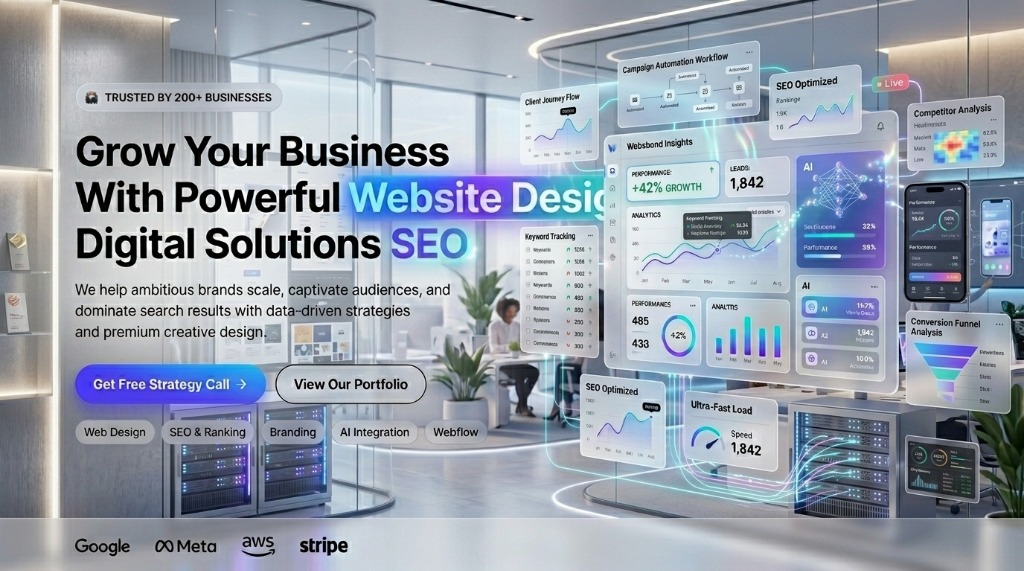
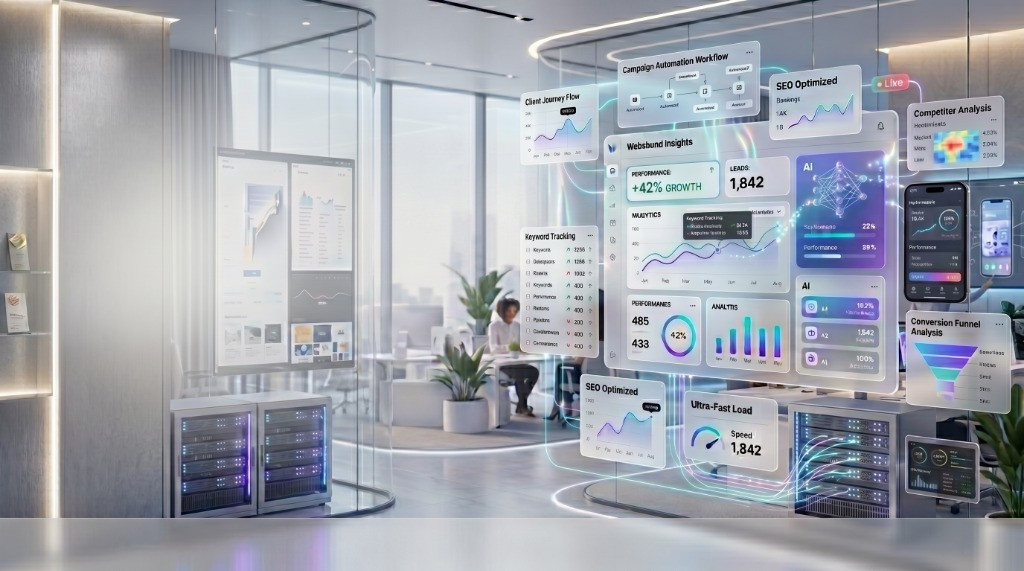
design(hero): set clean mockup image as full section background and place live HTML text on top

diff --git a/agency/src/components/site/Hero.tsx b/agency/src/components/site/Hero.tsx
@@ -8,15 +8,17 @@ export const Hero = () => {
   return (
     <section
       id="hero"
-      className="relative min-h-[90vh] md:min-h-screen flex items-center justify-center overflow-hidden bg-[#fafbfc] pt-24 pb-16"
+      className="relative min-h-[90vh] md:min-h-screen flex items-center justify-center overflow-hidden bg-[#fbfcfd] pt-24 pb-16 bg-cover bg-center bg-no-repeat"
+      style={{ backgroundImage: `url(${heroDashboard})` }}
     >
-      {/* Light modern background details */}
-      <div className="absolute inset-0 bg-[radial-gradient(ellipse_at_top_right,_var(--tw-gradient-stops))] from-blue-50/45 via-transparent to-transparent pointer-events-none" />
+      {/* Translucent overlay to blend light office details and make left-aligned text perfectly readable */}
+      <div className="absolute inset-0 bg-gradient-to-r from-white via-white/80 md:from-white/70 md:via-white/20 to-transparent pointer-events-none" />
+      <div className="absolute inset-0 bg-white/10 backdrop-blur-[0.5px] pointer-events-none" />
 
-      <div className="container relative z-10 mx-auto px-4">
-        <div className="grid lg:grid-cols-12 gap-12 lg:gap-8 items-center">
+      <div className="container relative z-10 mx-auto px-4 md:px-8 lg:px-12">
+        <div className="grid lg:grid-cols-12 gap-8 items-center">
           
-          {/* ── Left Column: Live Styled Text ── */}
+          {/* ── Left Column: Live Mockup Text ── */}
           <div className="lg:col-span-7 flex flex-col items-start text-left z-10">
             
             {/* Trusted Badge */}
@@ -28,7 +30,7 @@ export const Hero = () => {
             {/* Heading */}
             <h1
               className="font-jost font-black text-[#0c0d16] mb-6 leading-[1.08] tracking-tight text-left"
-              style={{ fontSize: "clamp(34px, 4.8vw, 68px)" }}
+              style={{ fontSize: "clamp(34px, 4.5vw, 60px)" }}
             >
               Grow Your Business
               <br />
@@ -59,7 +61,7 @@ export const Hero = () => {
 
               <Link
                 to="/our-portfolio"
-                className="inline-flex items-center justify-center font-bold text-[#0c0d16] border border-gray-300/80 bg-white/70 backdrop-blur-sm px-8 py-4 rounded-full transition-all duration-300 hover:bg-gray-50 hover:scale-105 text-base w-full sm:w-auto"
+                className="inline-flex items-center justify-center font-bold text-[#0c0d16] border border-gray-300/80 bg-white/70 backdrop-blur-sm px-8 py-4 rounded-full transition-all duration-300 hover:bg-gray-50/90 hover:scale-105 text-base w-full sm:w-auto"
               >
                 View Our Portfolio
               </Link>
@@ -99,24 +101,8 @@ export const Hero = () => {
 
           </div>
 
-          {/* ── Right Column: Masked Mockup Graphic ── */}
-          <div className="lg:col-span-5 relative w-full flex items-center justify-center">
-            {/* Visual Glass Card Container */}
-            <div className="relative w-full aspect-[4/3] sm:aspect-[16/11] lg:h-[520px] rounded-[2.5rem] overflow-hidden shadow-[0_25px_60px_-15px_rgba(0,0,0,0.12)] border border-gray-200/60 bg-white/10 backdrop-blur-sm select-none">
-              
-              {/* Cropped Mockup Image: displaying only the floating 3D dashboard components */}
-              <img
-                src={heroDashboard}
-                alt="Websbond Marketing Insights Platform"
-                className="absolute right-0 top-0 h-full w-[170%] max-w-none object-cover object-right select-none pointer-events-none"
-              />
-              
-            </div>
-            
-            {/* Ambient colorful glow decorations matching the mockup graphics */}
-            <div className="absolute -right-12 -top-12 w-64 h-64 bg-cyan-400/10 rounded-full blur-3xl pointer-events-none" />
-            <div className="absolute -left-12 -bottom-12 w-64 h-64 bg-purple-500/15 rounded-full blur-3xl pointer-events-none" />
-          </div>
+          {/* ── Right Column: Spacer to preserve the background image's dashboard visuals ── */}
+          <div className="lg:col-span-5 h-0 lg:h-[500px] pointer-events-none select-none" />
 
         </div>
       </div>